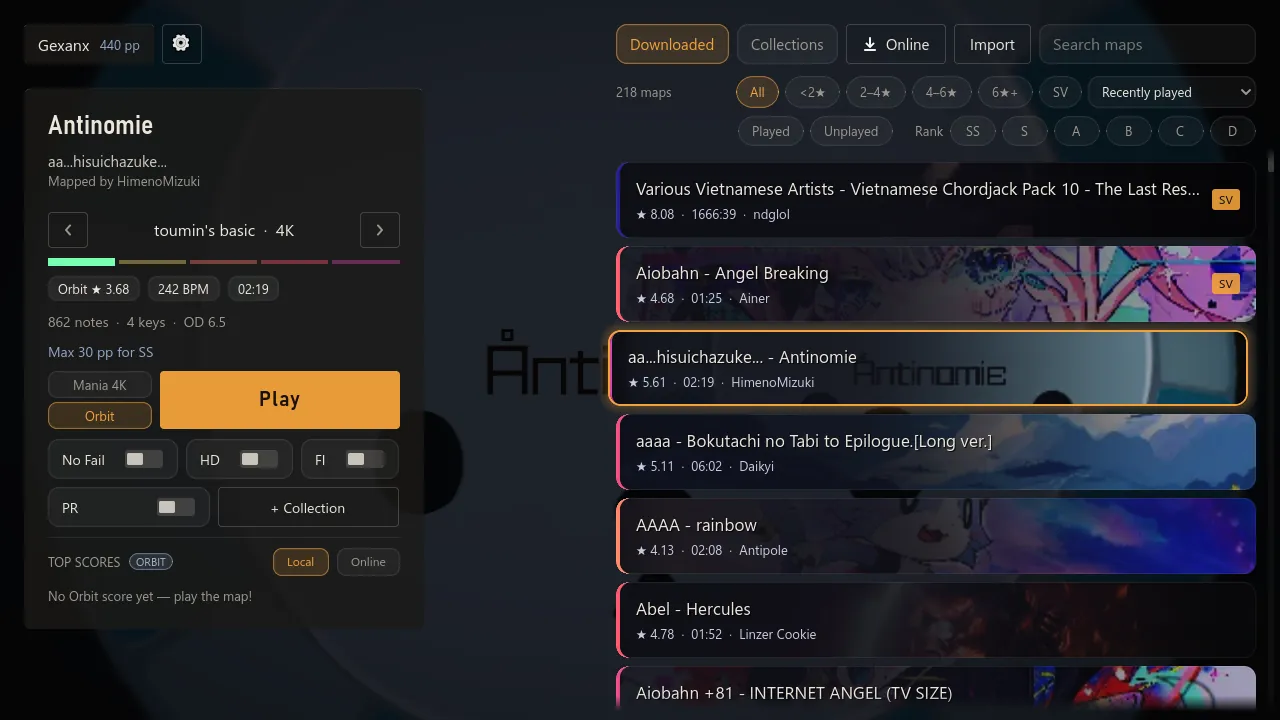
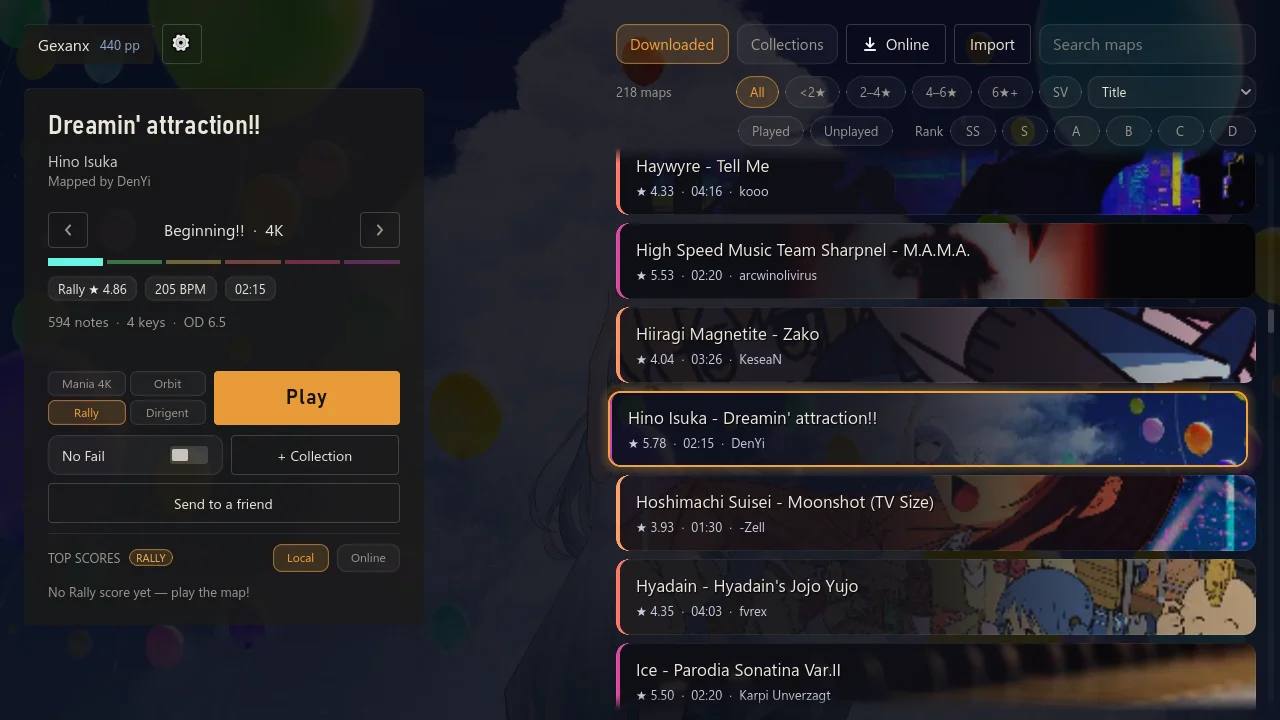
README: neuer Browser-Screenshot mit vier Modi, Multiplayer in allen Modi

diff --git a/README.md b/README.md
@@ -118,7 +118,7 @@ Switch on **SV** in the song browser. The mod writes scroll changes from the map
 
 <table>
   <tr>
-    <td width="50%"><a href="docs/media/ui_browser.webp"><img src="docs/media/ui_browser.webp" alt="Song browser"></a><br><sub>Song browser per mode with star rating (Orbit has its own), pp, collections, star ranges, SV, played / unplayed and rank filters, and sorting.</sub></td>
+    <td width="50%"><a href="docs/media/ui_browser.webp"><img src="docs/media/ui_browser.webp" alt="Song browser"></a><br><sub>Song browser per mode (Mania, Orbit, Rally, Dirigent), each with its own star rating; pp for Mania, collections, star ranges, SV, played / unplayed and rank filters, and sorting.</sub></td>
     <td width="50%"><a href="docs/media/ui_online.webp"><img src="docs/media/ui_online.webp" alt="Online map browser"></a><br><sub>Search and download ranked maps in the game, for Mania and for Orbit.</sub></td>
   </tr>
   <tr>
@@ -126,7 +126,7 @@ Switch on **SV** in the song browser. The mod writes scroll changes from the map
     <td width="50%"><a href="docs/media/ui_orbit_fail.webp"><img src="docs/media/ui_orbit_fail.webp" alt="Failed Orbit run"></a><br><sub>A failed run still shows every hit and miss on the timeline. In Mania the fail screen also names the likely cause (a lag spike, early releases, a burst of misses).</sub></td>
   </tr>
   <tr>
-    <td width="50%"><a href="docs/media/ui_lobby.webp"><img src="docs/media/ui_lobby.webp" alt="Multiplayer room"></a><br><sub>Multiplayer by room code: free, teams, battle royale, Mania or Orbit.</sub></td>
+    <td width="50%"><a href="docs/media/ui_lobby.webp"><img src="docs/media/ui_lobby.webp" alt="Multiplayer room"></a><br><sub>Multiplayer by room code: free, teams, battle royale, in all four modes.</sub></td>
     <td width="50%"><a href="docs/media/ui_tournament_pick.webp"><img src="docs/media/ui_tournament_pick.webp" alt="Tournament picks and bans"></a><br><sub>Tournaments with picks, bans and auto-pick filters.</sub></td>
   </tr>
   <tr>
